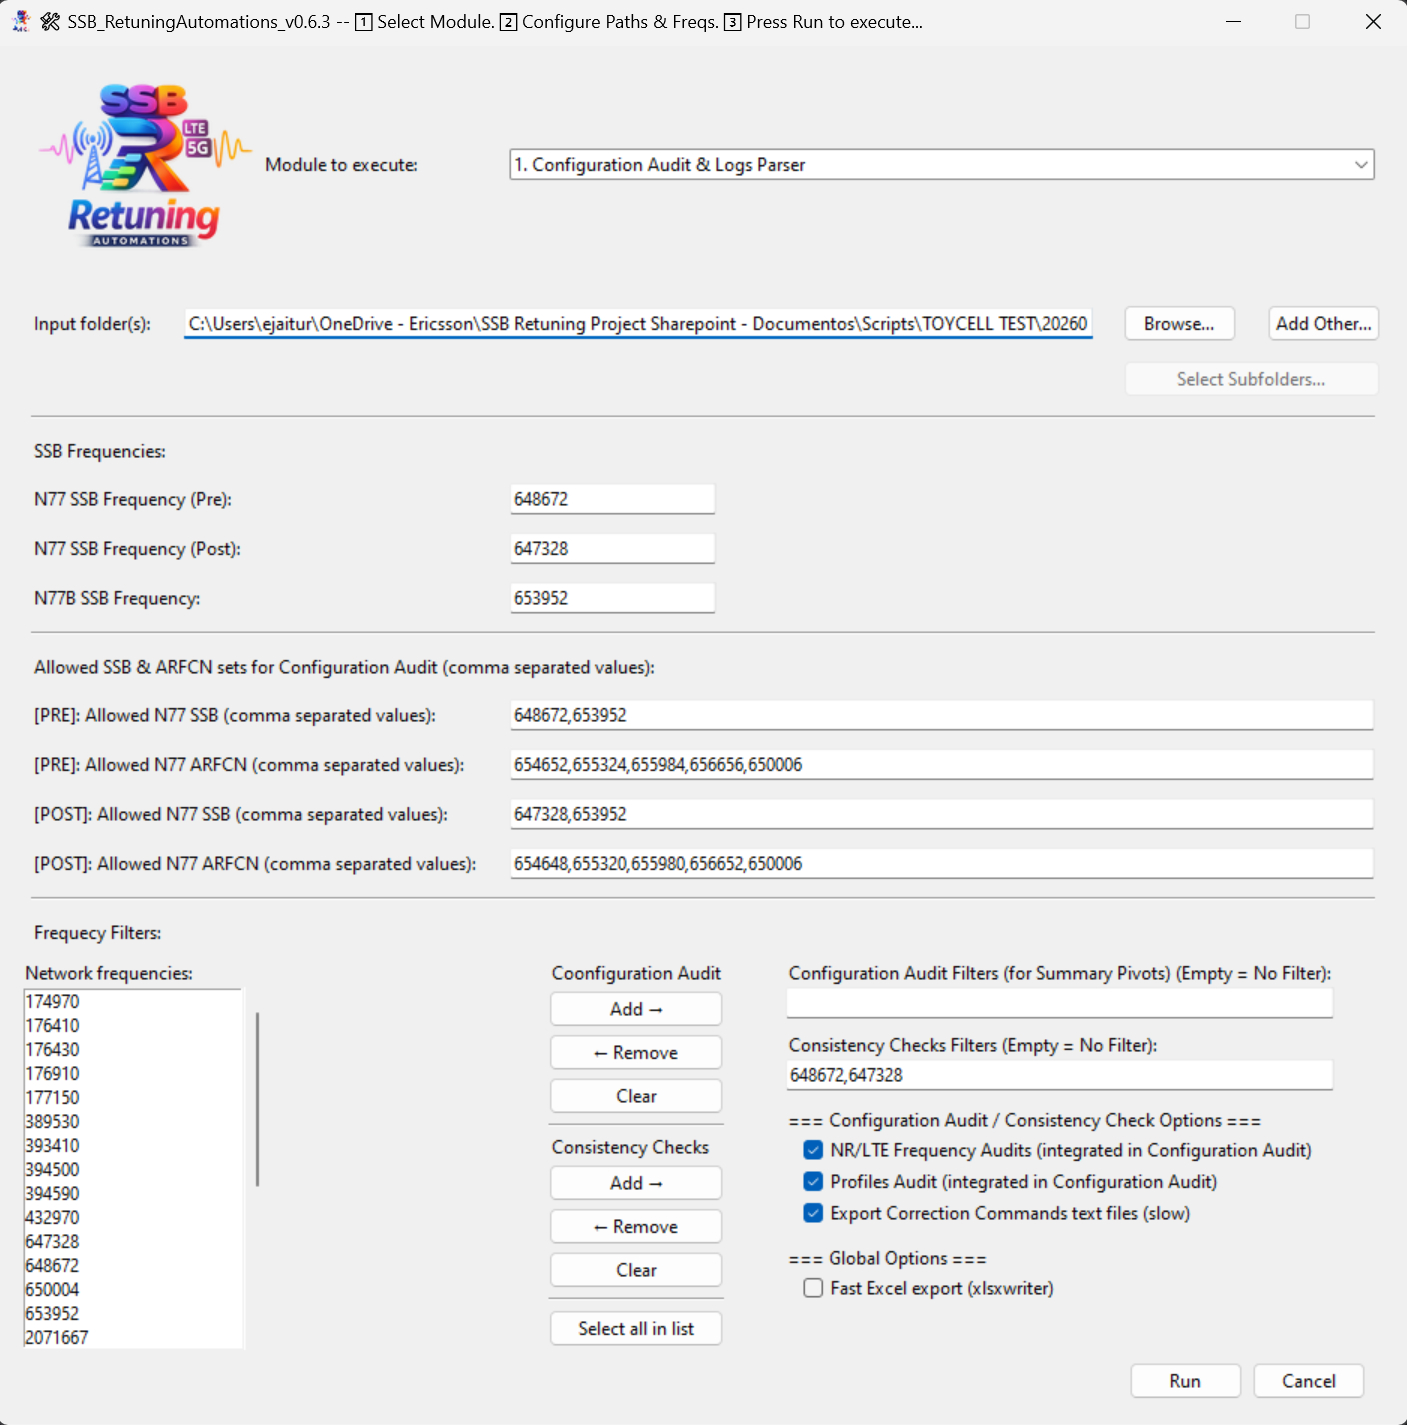
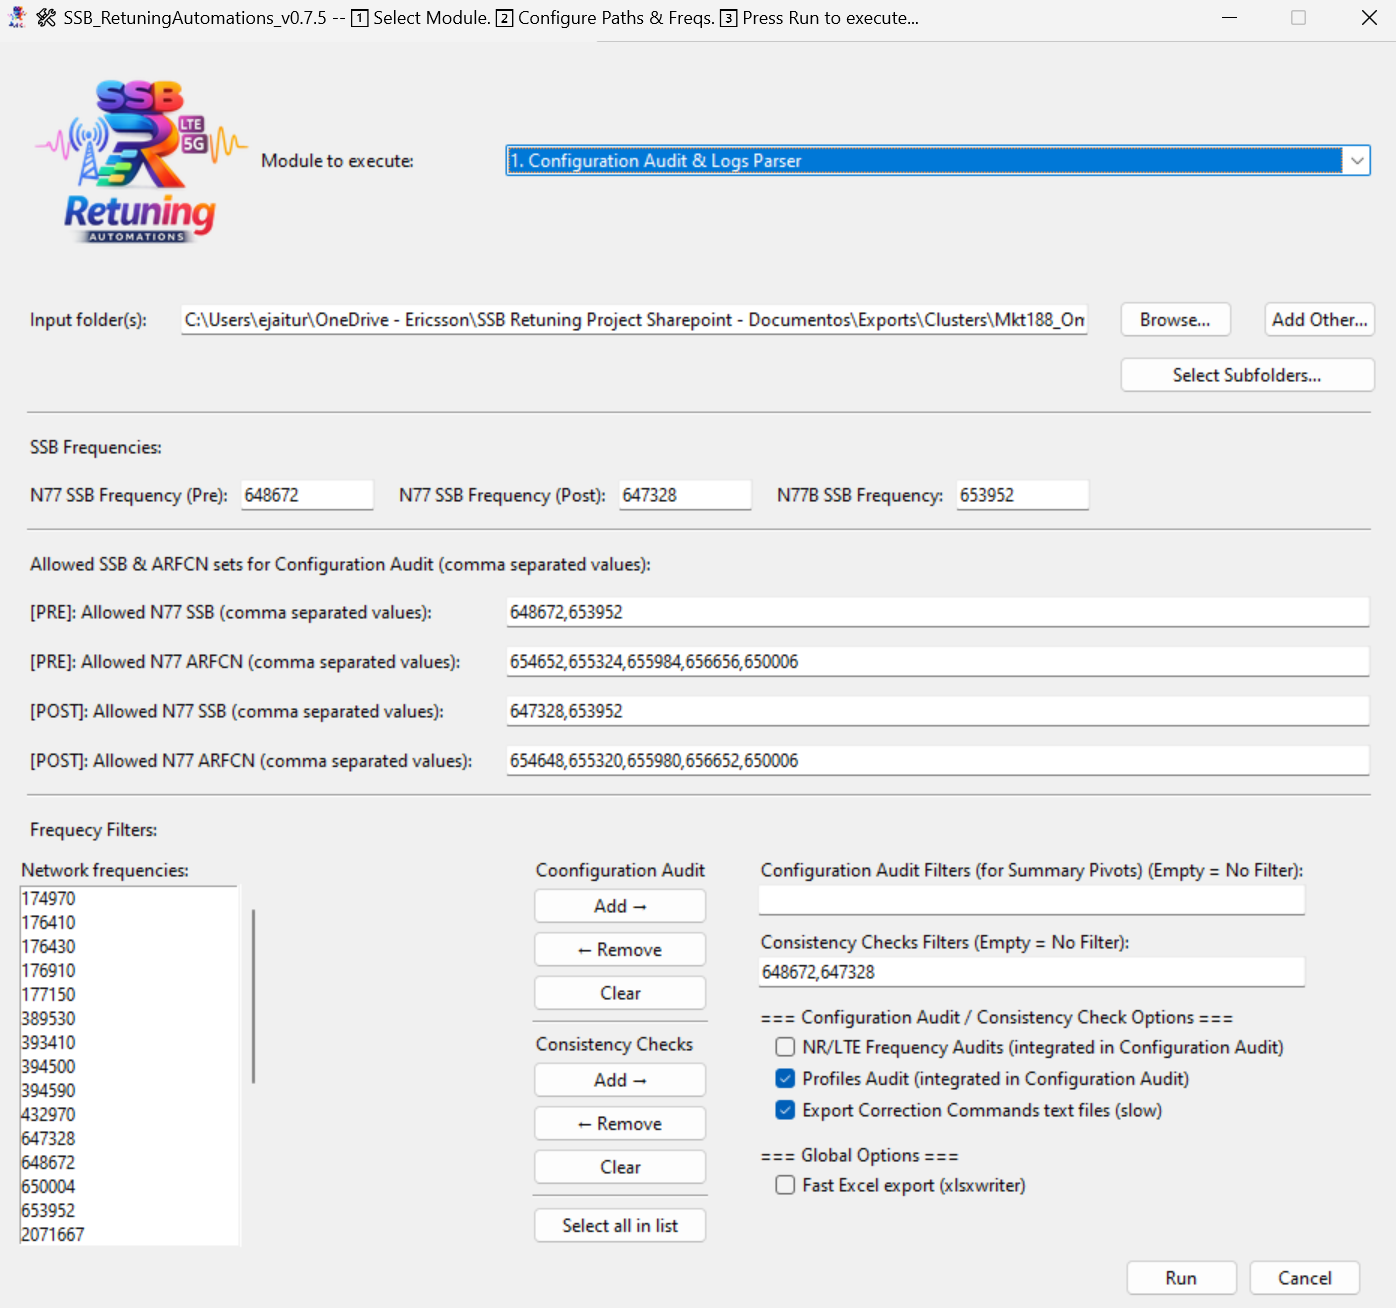
## Release: v0.7.5 ### Release Date: 2026-02-18
- #### 🚨 Breaking Changes:

- #### 🌟 New Features:
  - Added SQLite resilience (busy_timeout, WAL, connect timeout, etc.) plus startup task recovery to reduce hangs and auto-requeue interrupted jobs after restart.
  - Added /healthz endpoint and Docker/Compose healthchecks for automatic health probing and restart orchestration support.
  - Added inline Rename button in Inputs (user/admin), including folder rename + DB update, with user-only ownership enforcement and full admin rights.
  - Added a new Connected column in Admin → Users (right after Status) and show each user as connected / not connected based on active non-idle sessions.
  - Added a new Users filter combo in Admin with options: Select All, Connected Users, No Connected Users, Admin Role, User Role, Active Users, Inactive Users.
  - Added combined Inputs Wildcard filter (wildcard + case-insensitive) in user/admin, applied together with user-scope filter.
  - Added row filtering logic for the Users panel using per-row attributes (data-user-role, data-user-active, data-user-connected) and the selected filter option.
  - Added Wildcard filter and Last 24h filters to Inputs and Execution History (user/admin).
  - Added live connected users counter badge in administrator section.
  - Added re-run selected action for user and admin in execution history panel.

- #### 🚀 Enhancements:
  - Persisted collapsed/expanded state of panels per user in both user and admin dashboards.
[…]

diff --git a/CHANGELOG.md b/CHANGELOG.md
@@ -10,13 +10,11 @@
 - #### 🌟 New Features:
   - Added SQLite resilience (busy_timeout, WAL, connect timeout, etc.) plus startup task recovery to reduce hangs and auto-requeue interrupted jobs after restart. 
   - Added /healthz endpoint and Docker/Compose healthchecks for automatic health probing and restart orchestration support. 
-  - Enabled user-panel Executions History visibility across users (with “All users” + per-user filter) while keeping ownership restrictions for stop/delete. 
   - Added inline Rename button in Inputs (user/admin), including folder rename + DB update, with user-only ownership enforcement and full admin rights.
   - Added a new Connected column in Admin → Users (right after Status) and show each user as connected / not connected based on active non-idle sessions. 
   - Added a new Users filter combo in Admin with options: Select All, Connected Users, No Connected Users, Admin Role, User Role, Active Users, Inactive Users. 
   - Added combined Inputs Wildcard filter (wildcard + case-insensitive) in user/admin, applied together with user-scope filter. 
-  - Implemented row filtering logic for the Users panel using per-row attributes (data-user-role, data-user-active, data-user-connected) and the selected filter option. 
-  - Made this Users filter persistent per admin user in user_settings (admin_users_filter) and restored it on page load, with save-on-change behavior via /settings/update. 
+  - Added row filtering logic for the Users panel using per-row attributes (data-user-role, data-user-active, data-user-connected) and the selected filter option. 
   - Added Wildcard filter and Last 24h filters to Inputs and Execution History (user/admin).
   - Added live connected users counter badge in administrator section.
   - Added re-run selected action for user and admin in execution history panel.
@@ -24,9 +22,12 @@
 - #### 🚀 Enhancements:
   - Persisted collapsed/expanded state of panels per user in both user and admin dashboards. 
   - Persisted selected System Logs source per user for both user and admin views across page refreshes. 
+  - Enabled user-panel Executions History visibility across users (with “All users” + per-user filter) while keeping ownership restrictions for stop/delete. 
   - Refined wildcard filter UX defaults and expand Inputs filter coverage.
   - Persist wildcard filter history for inputs and executions.
   - Compact SSB frequency section to reduce GUI dialog height to adapt the resolution for a small screen.
+  - Made Users filter persistent per admin user in user_settings (admin_users_filter) and restored it on page load, with save-on-change behavior via /settings/update. 
+  - Persist all user filters and keep Run Module visible when collapsed.
 
 - #### 🐛 Bug fixes:
   - Fixed duplicated System/Application log lines by de-duplicating uvicorn logger handler wiring and propagation. 
